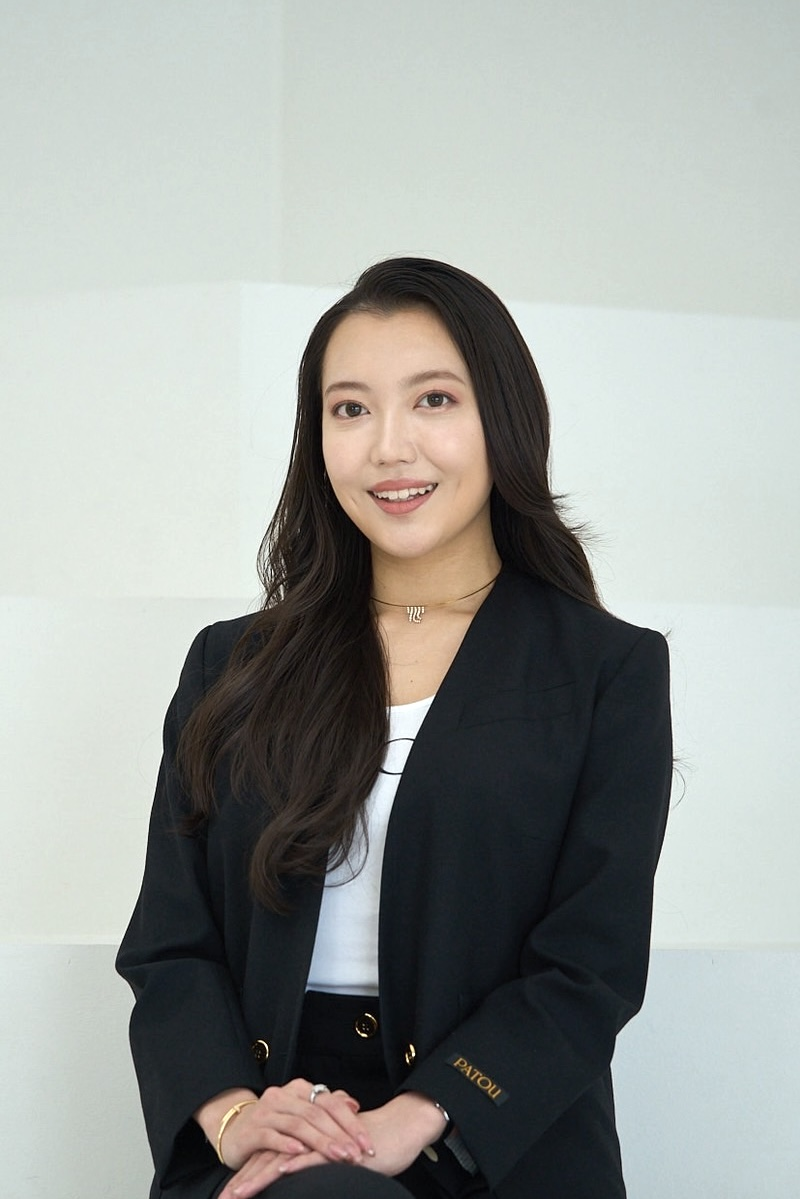
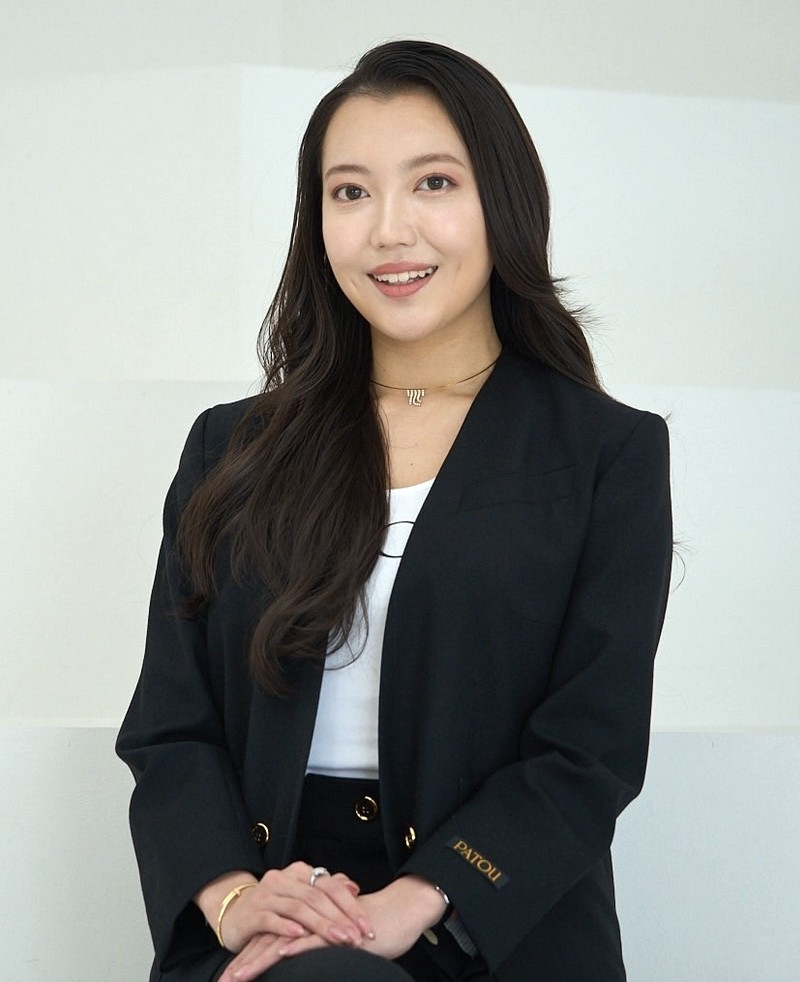
Fix: 岡田美波のポートレート画像を更新＋ポートレートにキャッシュ破棄を付与
assets/img/founder/okada.jpeg を更新版に差し替え（リポジトリ直下の重複は削除）。
画像更新が確実に反映されるよう、MESSAGE のポートレートURLに filemtime ベースの
?ver= を付与（ファイル名据え置きでもブラウザキャッシュを破棄）。

Changed region(s): [[0.0938, 0.0305, 0.8438, 1.0], [0.6875, 0.611, 0.7188, 0.6415], [0.3438, 0.5499, 0.375, 0.5804]]

diff --git a/front-page.php b/front-page.php
@@ -29,11 +29,14 @@ $logo_circle = get_theme_file_uri( 'assets/img/logo/boa-12.png' );
 $logo_text   = get_theme_file_uri( 'assets/img/logo/boa-17.png' );
 
 // MESSAGE（FOUNDER）ポートレート。ファイルがあれば背景に cover 表示、無ければCSSのグラデ。
-$founder_mizuno_bg = file_exists( get_theme_file_path( 'assets/img/founder/mizuno.png' ) )
-	? ' style="background-image:url(\'' . esc_url( get_theme_file_uri( 'assets/img/founder/mizuno.png' ) ) . '\');background-size:cover;background-position:center 20%;"'
+// 画像更新時に確実に反映されるよう URL へ filemtime ベースの ?ver= を付与（キャッシュ破棄）。
+$founder_mizuno_path = get_theme_file_path( 'assets/img/founder/mizuno.png' );
+$founder_mizuno_bg   = file_exists( $founder_mizuno_path )
+	? ' style="background-image:url(\'' . esc_url( get_theme_file_uri( 'assets/img/founder/mizuno.png' ) . '?ver=' . filemtime( $founder_mizuno_path ) ) . '\');background-size:cover;background-position:center 20%;"'
 	: '';
-$founder_okada_bg = file_exists( get_theme_file_path( 'assets/img/founder/okada.jpeg' ) )
-	? ' style="background-image:url(\'' . esc_url( get_theme_file_uri( 'assets/img/founder/okada.jpeg' ) ) . '\');background-size:cover;background-position:center 20%;"'
+$founder_okada_path = get_theme_file_path( 'assets/img/founder/okada.jpeg' );
+$founder_okada_bg   = file_exists( $founder_okada_path )
+	? ' style="background-image:url(\'' . esc_url( get_theme_file_uri( 'assets/img/founder/okada.jpeg' ) . '?ver=' . filemtime( $founder_okada_path ) ) . '\');background-size:cover;background-position:center 20%;"'
 	: '';
 
 // アーカイブリンク。